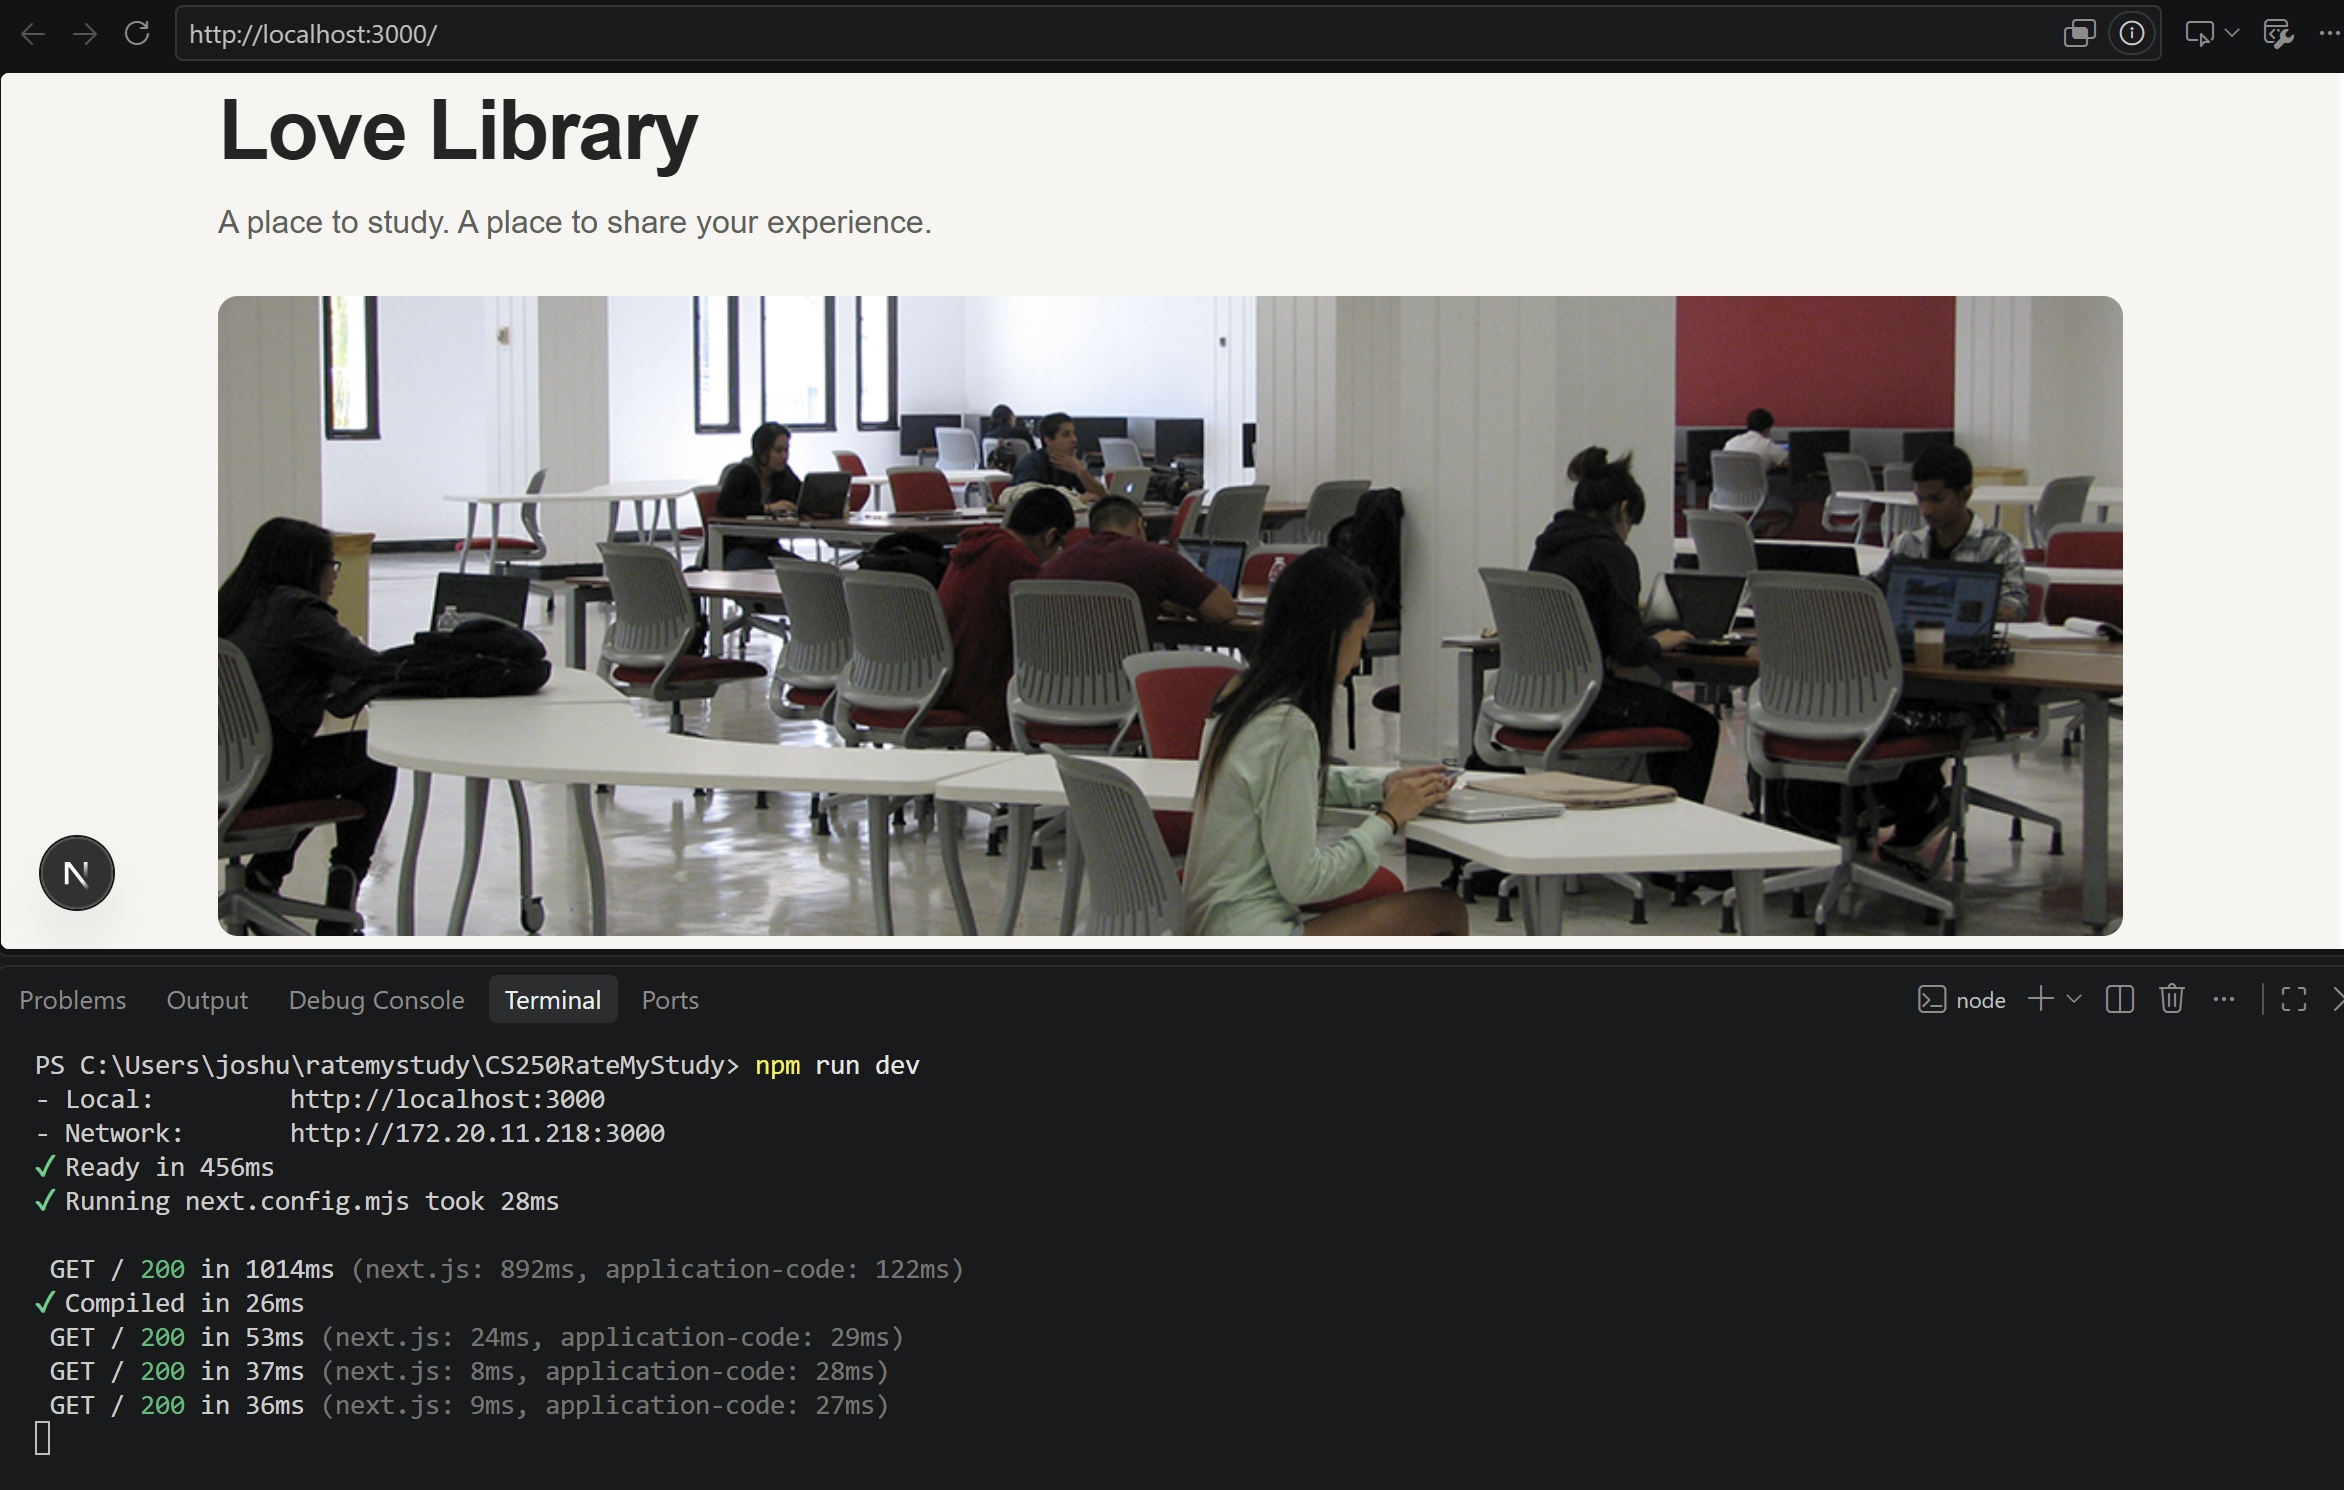
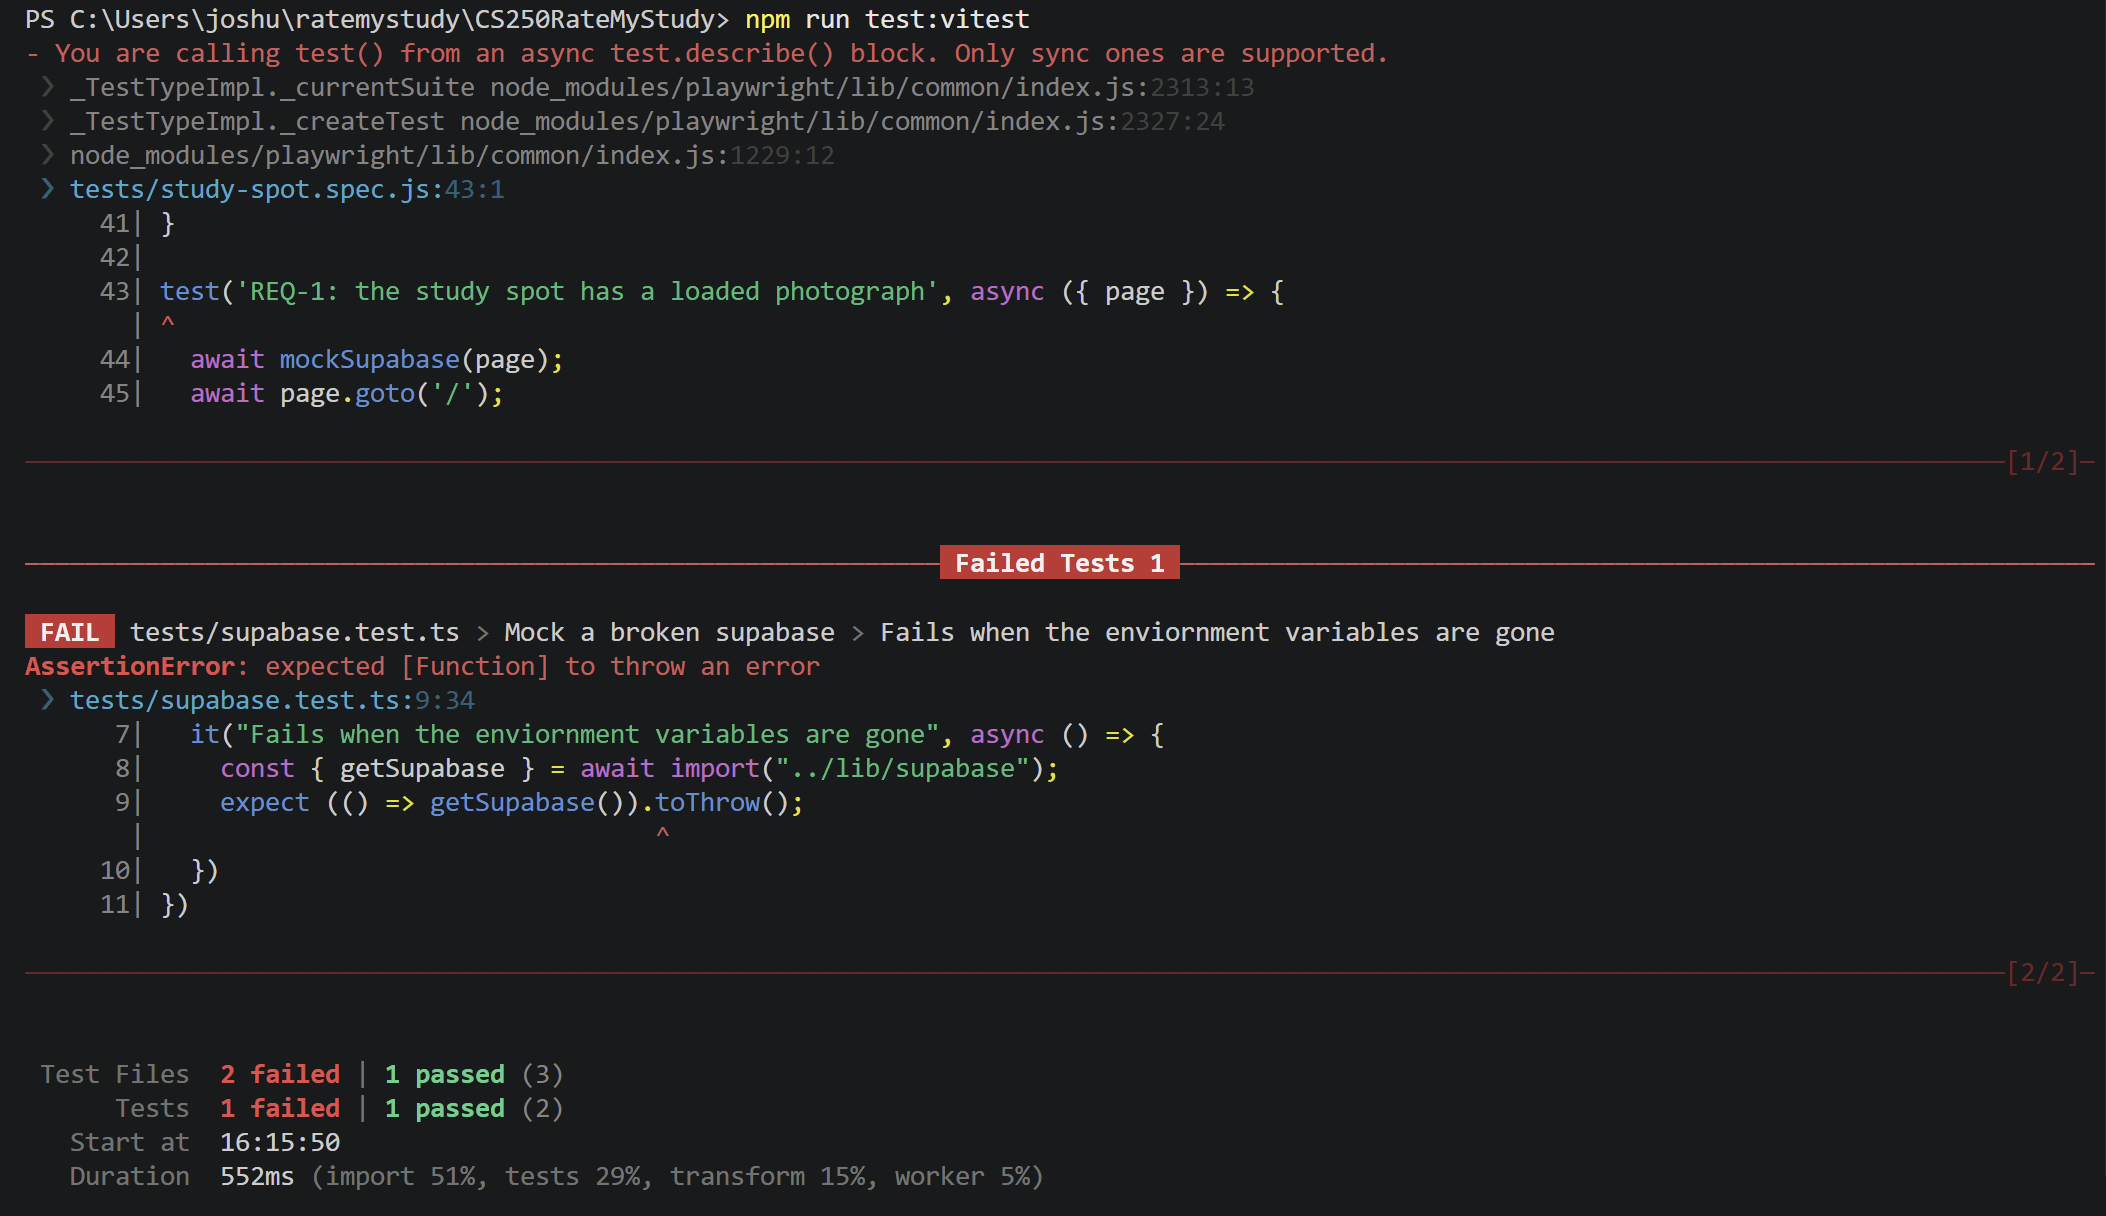
final test run

diff --git a/docs/PR4/PR4_team_report.md b/docs/PR4/PR4_team_report.md
@@ -23,7 +23,7 @@ The fix is simple, I removed the type check so JS would stop throwing ReferenceE
 Issue is https://github.com/coregithub1/CS250RateMyStudy/issues/88
 
 # Final Test Run
-No issues, screenshot included
+Failing tests were written by previous team, no actual issues remaining
 
 # Feature Decision
 ### User story
